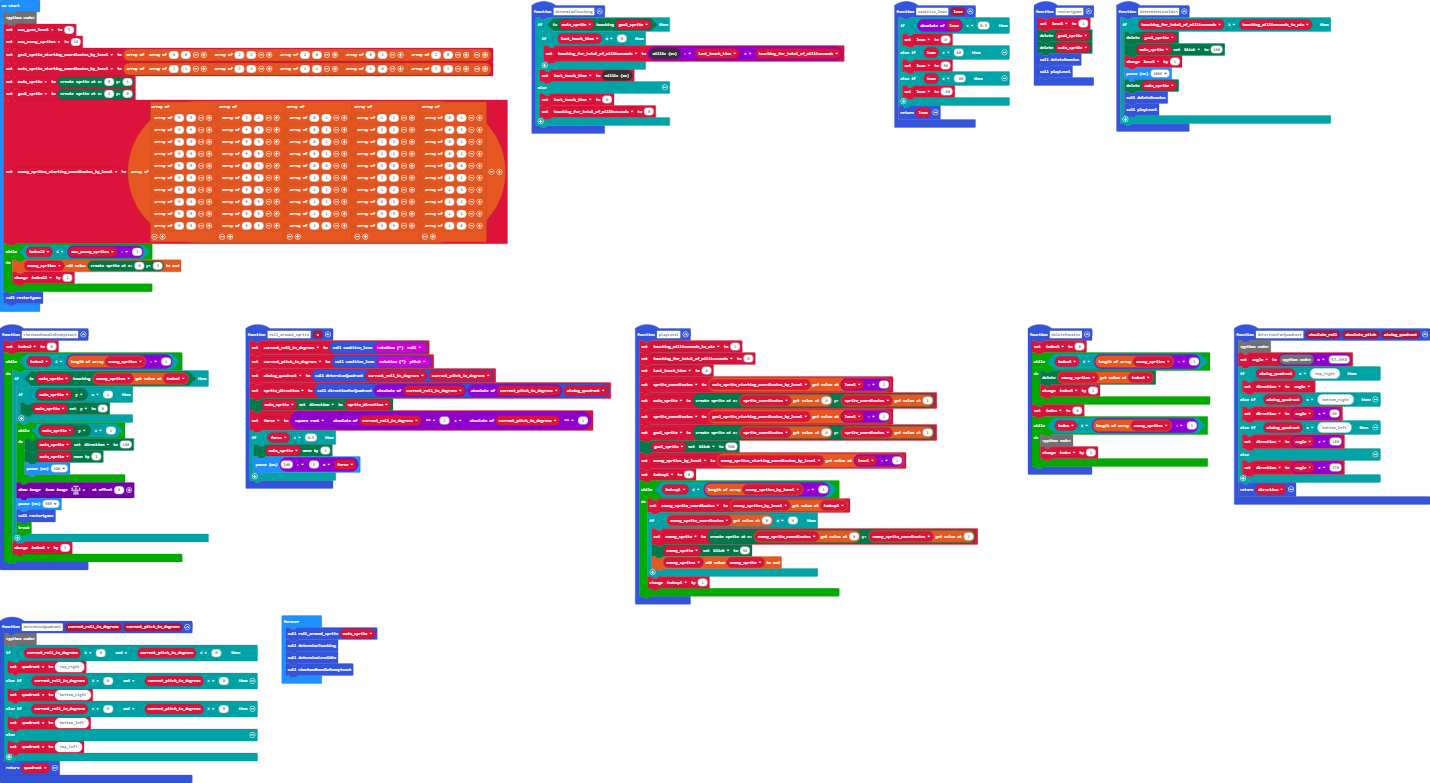
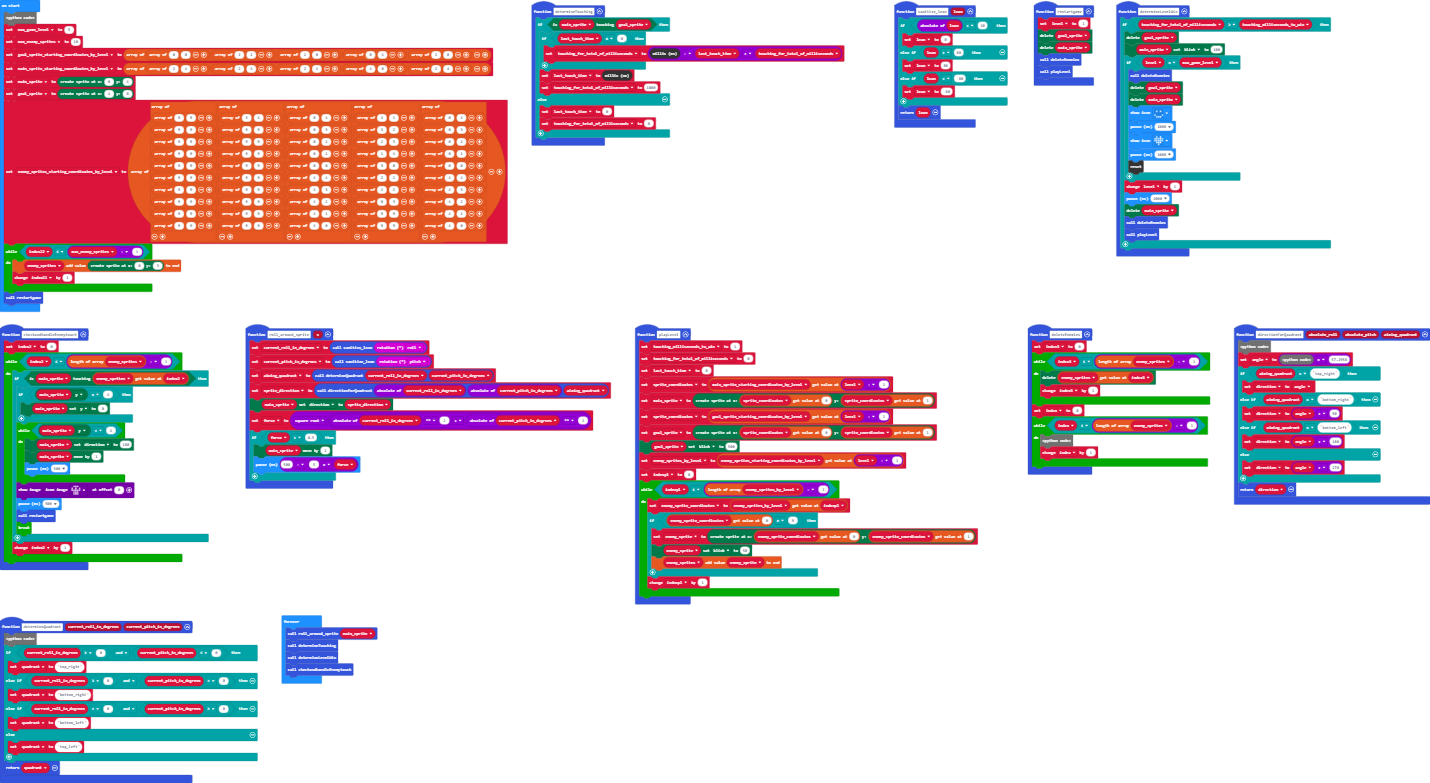
Working with many enemies, better control, and max level ending

Changed region(s): [[0.7692, 0.0613, 0.9231, 0.3372], [0.3692, 0.092, 0.4923, 0.1839]]

diff --git a/main.ts b/main.ts
@@ -4,6 +4,7 @@ function determineTouching () {
             touching_for_total_of_milliseconds = control.millis() - last_touch_time + touching_for_total_of_milliseconds
         }
         last_touch_time = control.millis()
+        touching_for_total_of_milliseconds = 1000
     } else {
         last_touch_time = 0
         touching_for_total_of_milliseconds = 0
@@ -22,7 +23,7 @@ index += 1
     }
 }
 function sanitize_lean (lean: number) {
-    if (Math.abs(lean) < 0.5) {
+    if (Math.abs(lean) < 10) {
         lean = 0
     } else if (lean > 80) {
         lean = 80
@@ -42,6 +43,16 @@ function determineLevelWin () {
     if (touching_for_total_of_milliseconds >= touching_milliseconds_to_win) {
         goal_sprite.delete()
         main_sprite.set(LedSpriteProperty.Blink, 100)
+        if (level == max_game_level) {
+            deleteEnemies()
+            goal_sprite.delete()
+            main_sprite.delete()
+            basic.showIcon(IconNames.Happy)
+            basic.pause(1000)
+            basic.showIcon(IconNames.Heart)
+            basic.pause(1000)
+            control.reset()
+        }
         level += 1
         basic.pause(2000)
         main_sprite.delete()
@@ -154,8 +165,9 @@ let goal_sprite: game.LedSprite = null
 let main_sprite: game.LedSprite = null
 let main_sprite_starting_coordinates_by_level: number[][] = []
 let goal_sprite_starting_coordinates_by_level: number[][] = []
+let max_game_level = 0
 let enemy_sprites : game.LedSprite[] = []
-let max_game_level = 5
+max_game_level = 5
 let max_enemy_sprites = 10
 goal_sprite_starting_coordinates_by_level = [[0, 0], [2, 2], [2, 0], [0, 4], [2, 0]]
 main_sprite_starting_coordinates_by_level = [[2, 4], [2, 4], [2, 4], [4, 0], [2, 4]]

diff --git a/main.py b/main.py
@@ -4,6 +4,7 @@ def determineTouching():
         if last_touch_time != 0:
             touching_for_total_of_milliseconds = control.millis() - last_touch_time + touching_for_total_of_milliseconds
         last_touch_time = control.millis()
+        touching_for_total_of_milliseconds = 1000
     else:
         last_touch_time = 0
         touching_for_total_of_milliseconds = 0
@@ -18,7 +19,7 @@ def deleteEnemies():
         enemy_sprites.pop()
         index += 1
 def sanitize_lean(lean: number):
-    if abs(lean) < 0.5:
+    if abs(lean) < 10:
         lean = 0
     elif lean > 80:
         lean = 80
@@ -37,6 +38,8 @@ def determineLevelWin():
     if touching_for_total_of_milliseconds >= touching_milliseconds_to_win:
         goal_sprite.delete()
         main_sprite.set(LedSpriteProperty.BLINK, 100)
+        if level == max_game_level:
+            control.reset()
         level += 1
         basic.pause(2000)
         main_sprite.delete()
